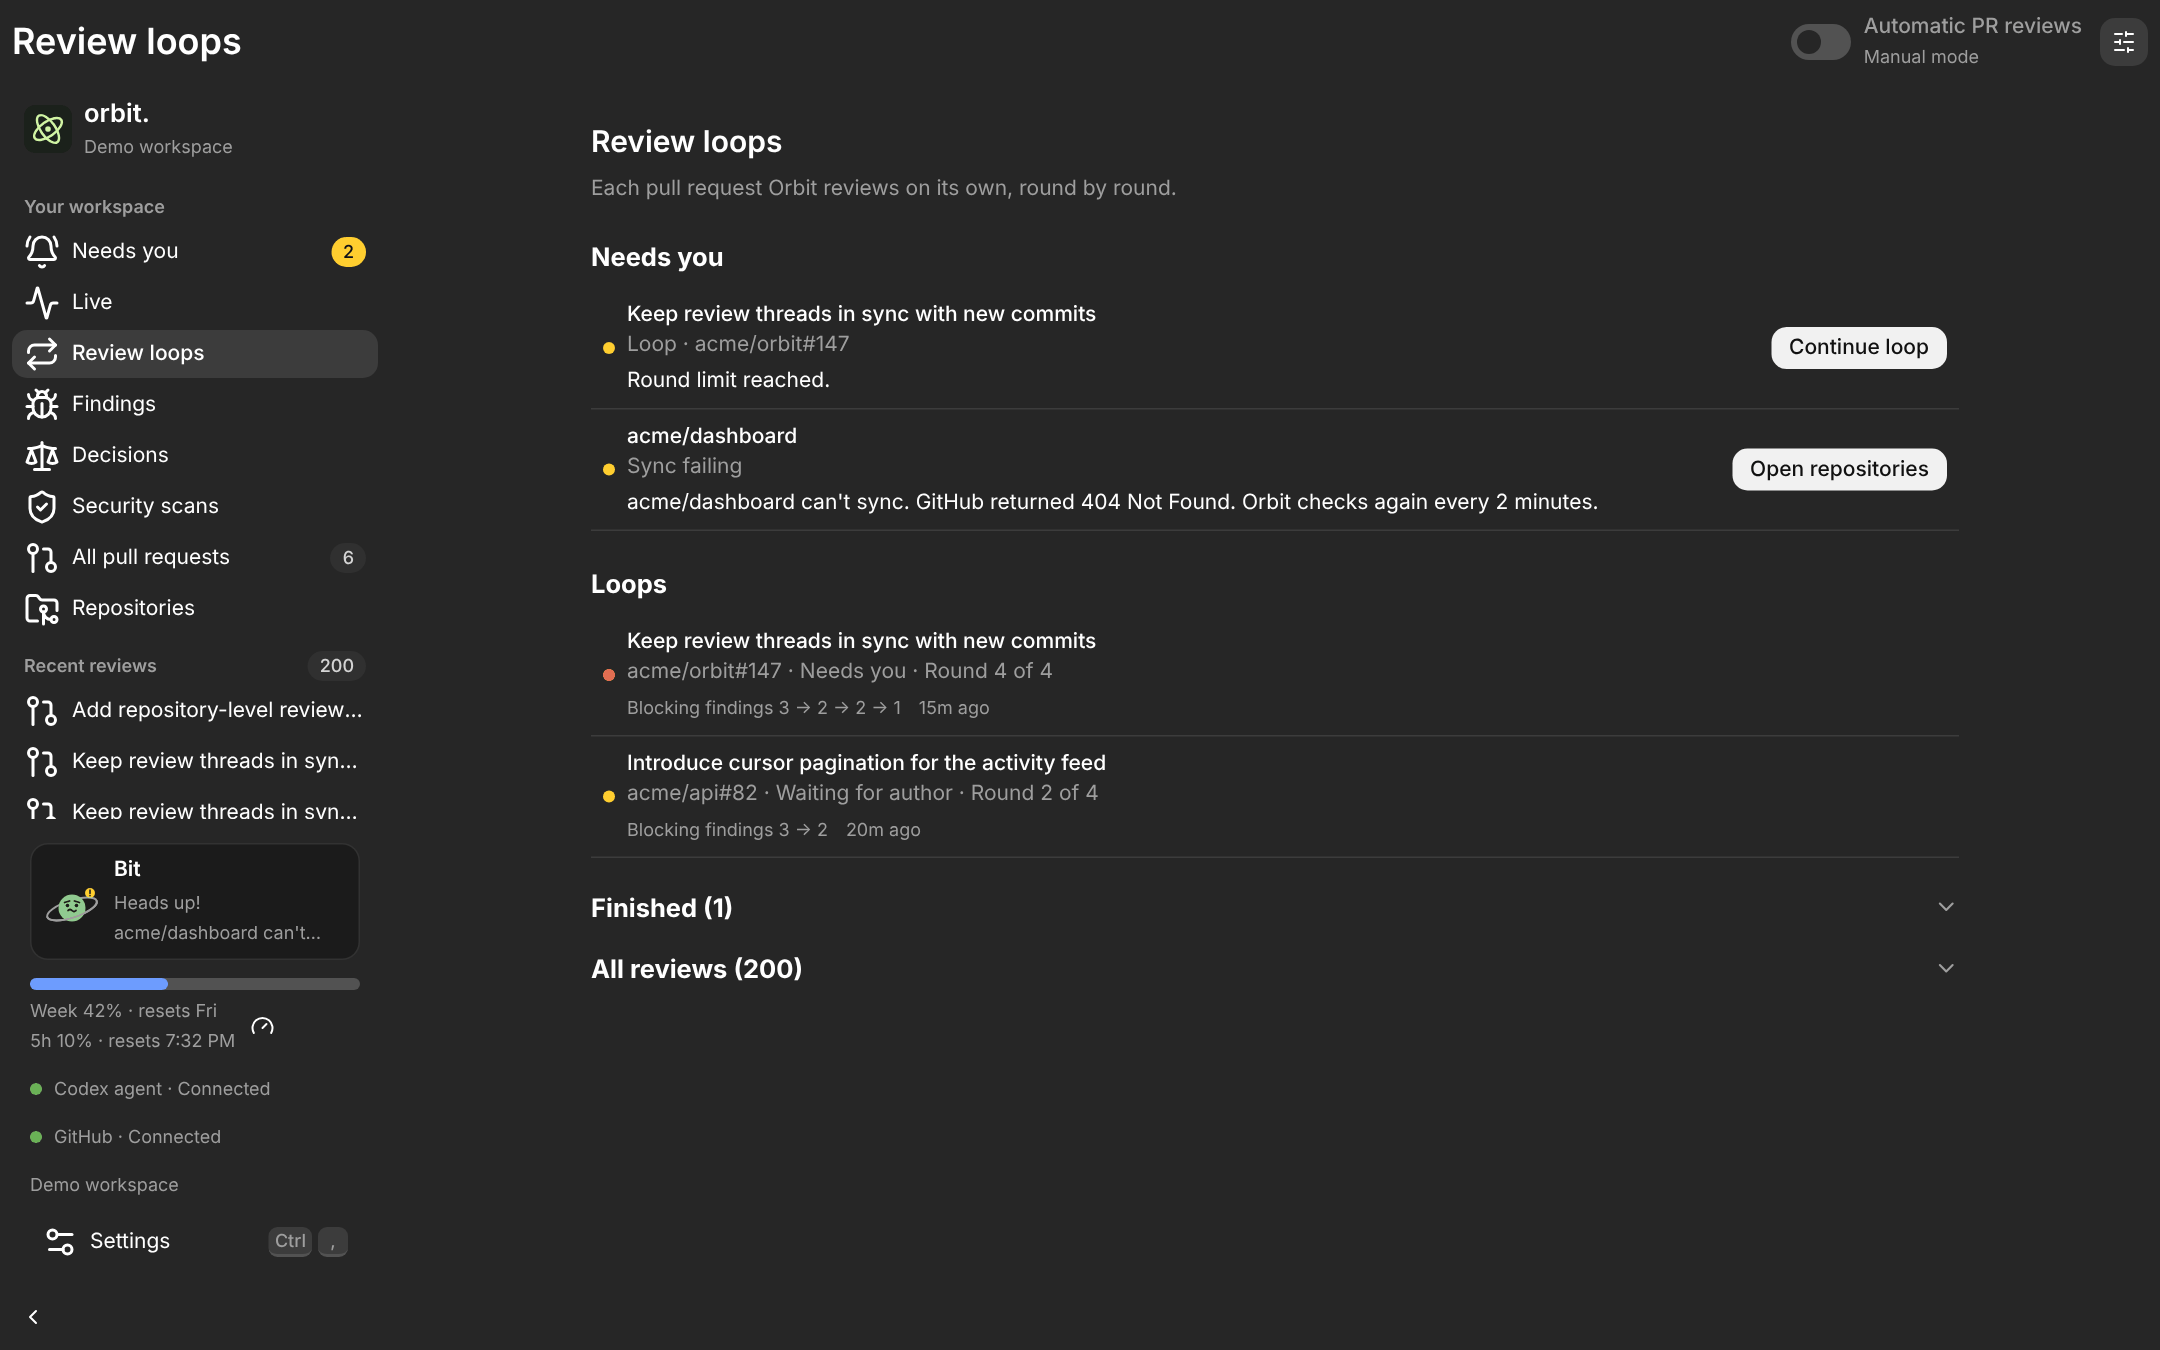
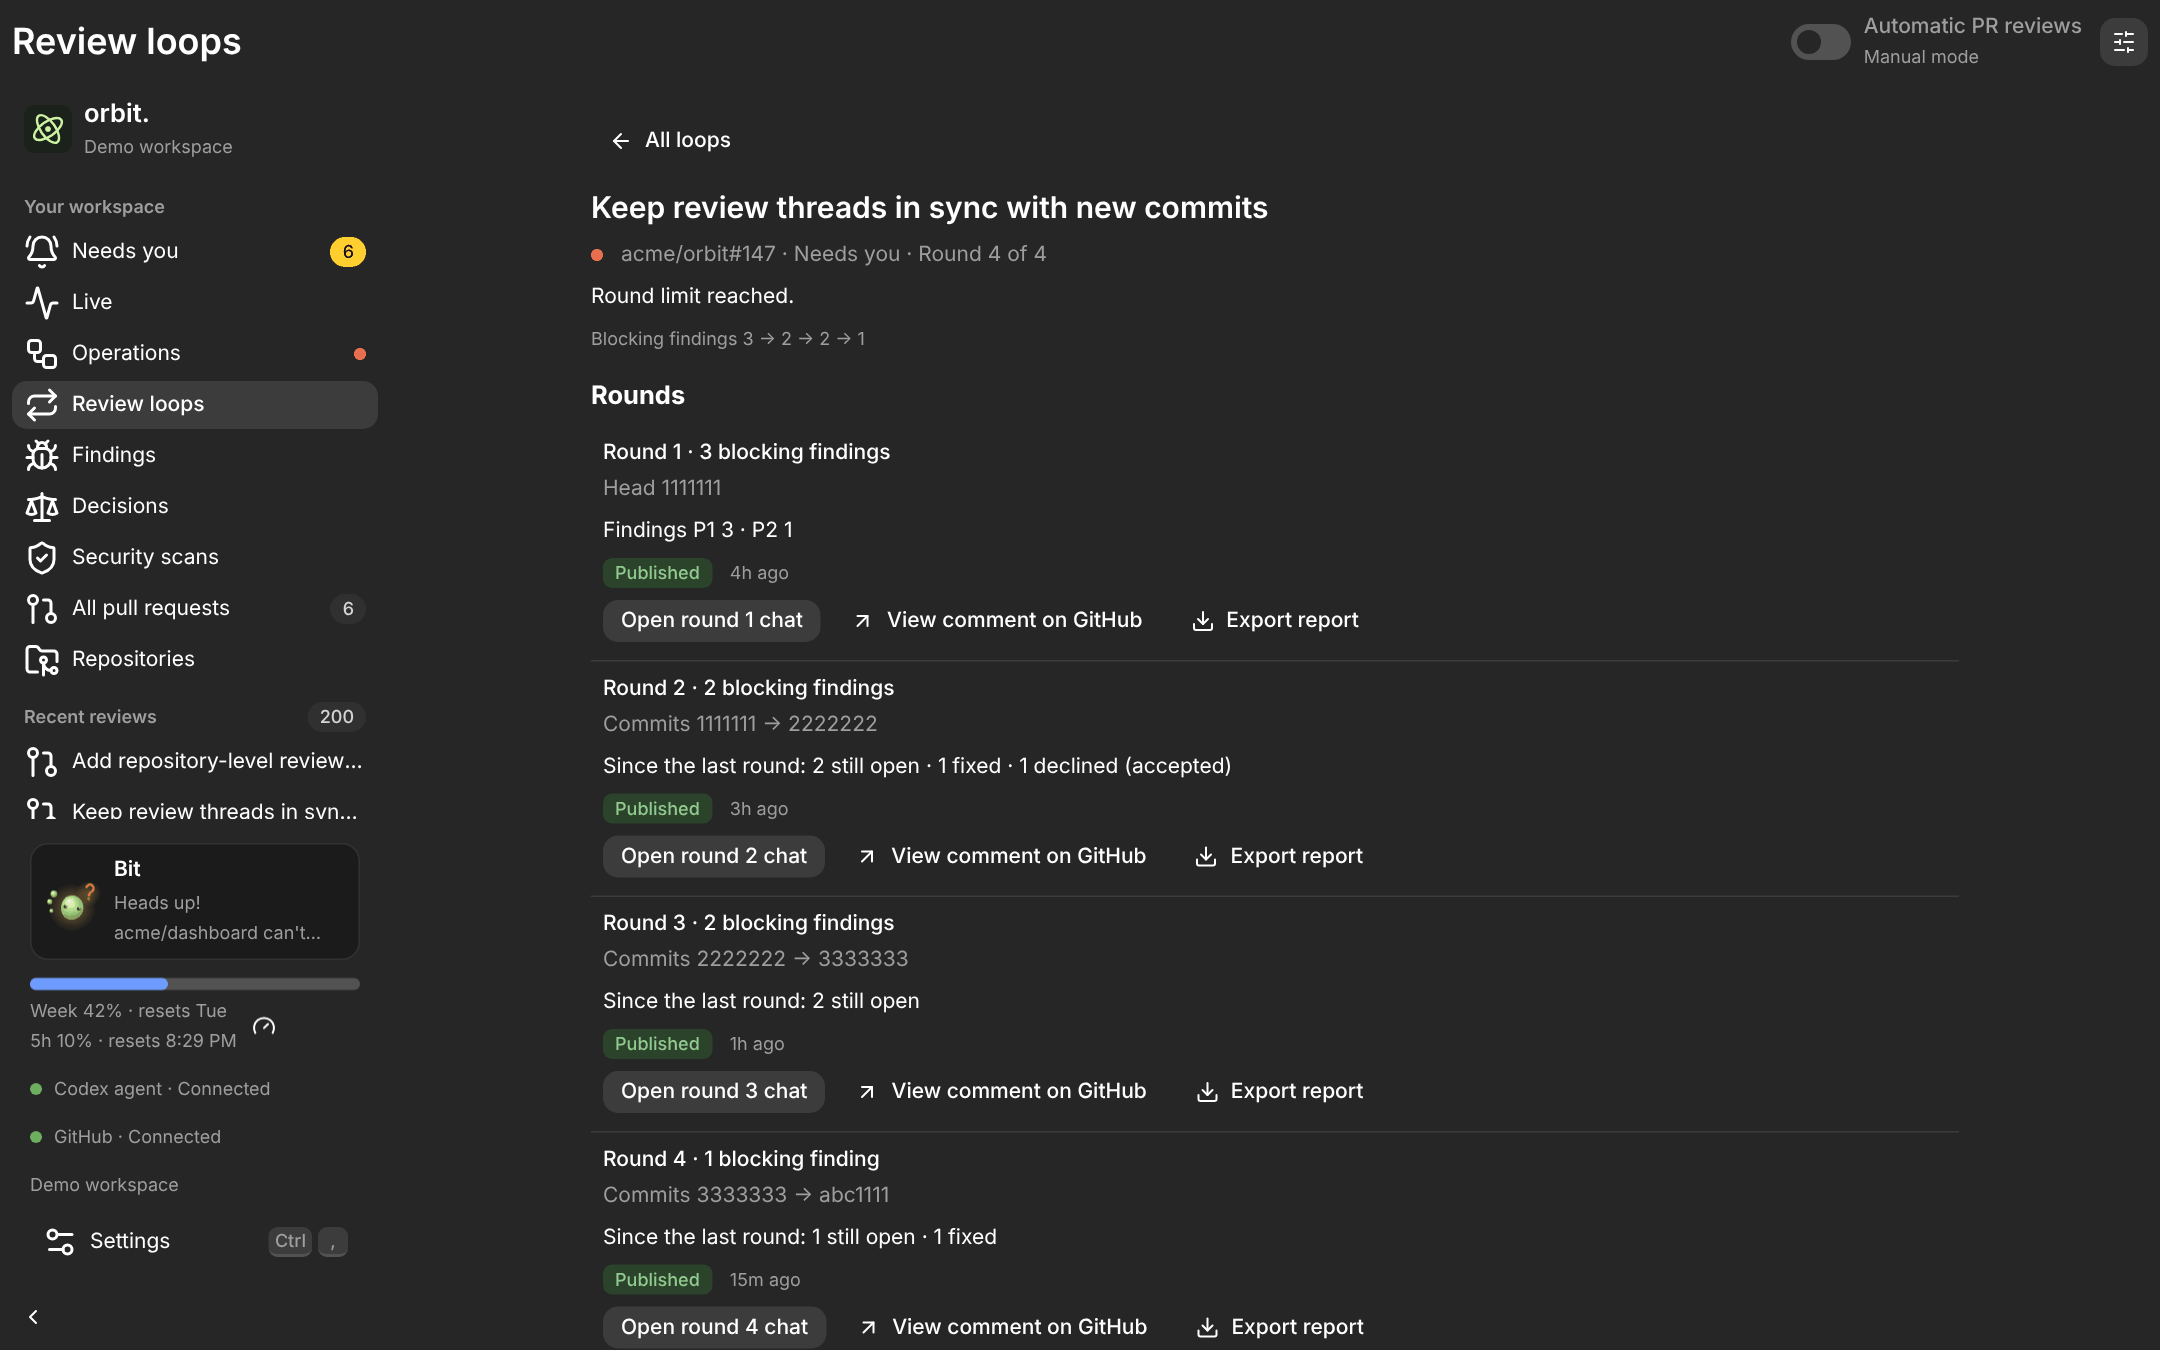
Refresh the README for 0.3.0 with new screenshots
The README now leads with pictures and short, plain words: how the
review loop works in four steps, then a look around each page with a
fresh screenshot from the browser demo. It adds the Operations page,
Bit's morning brief and looks, and a phone view of a loop that needs
you, and trims the text so the user guide carries the detail.

Claude-Session: https://claude.ai/code/session_01F86H7x6cpiREt9ohrkis7Y

diff --git a/README.md b/README.md
@@ -6,7 +6,7 @@
 
 <p align="center">
   <strong>A reviewer for your pull requests that keeps going until they're clean.</strong><br />
-  Runs on your computer, reviews with the AI coding tools you already use, and only calls you when something needs you.
+  It runs on your computer, reviews with the AI coding tools you already use, and only calls you when something needs you.
 </p>
 
 <p align="center">
@@ -16,67 +16,76 @@
   <a href="docs/architecture.md">How it works</a>
 </p>
 
-![Orbit's review chat: a finding with its priority, where it breaks, the evidence and a suggested fix, next to the review inbox](docs/screenshots/chat.png)
+![Orbit's review chat: a blocking finding with its priority, where it breaks, the evidence and a suggested fix, next to the review inbox](docs/screenshots/chat.png)
 
-A coding agent or a person opens a pull request. Orbit reviews its latest commit with **Codex**, **Claude** or **Antigravity**, in a separate copy of your repository, and posts what it found on GitHub. The author fixes or pushes back on each finding and pushes again. Orbit reviews the new commit, picking up from what it found before, and the loop repeats until nothing blocking is left.
+## How it works
 
-Orbit is a desktop app for Linux, macOS and Windows, built with Tauri, Rust and React. It uses the command-line tools you already have signed in, so it never asks for or stores your tokens.
+1. **A pull request opens**, from a coding agent or a person.
+2. **Orbit reviews it** with **Codex**, **Claude** or **Antigravity**, in its own copy of your repository, and posts what it found on GitHub.
+3. **The author answers** each finding, fixing it or saying why not, and pushes again.
+4. **Orbit looks again**, picking up where it left off, until nothing blocking is left.
 
-## What it does
+Every finding has a priority, a case where it breaks, the evidence and a suggested fix. Ask follow-up questions in the chat, then publish the review when you're happy, or let Orbit publish on its own.
 
-### Reviews that read like a good colleague's
+Orbit is a desktop app for Linux, macOS and Windows. It uses the command-line tools you already have signed in, so it never asks for your tokens.
 
-Every finding has a priority from P0 to P3, the places it shows up, a concrete case where it breaks, the evidence, a suggested fix and how to tell it's fixed. Findings keep short IDs like **F2** across rounds, so the author can reply `Fixed F2 in abc1234` or `Declined F2: intended` and Orbit checks the claim on the next round. Read the review in Orbit, ask follow-up questions in its chat, and publish it when you're happy, or let Orbit publish on its own.
+## A look around
 
 ### Loops that run themselves
 
-![The Review loops page: a loop that needs you, and two loops with their blocking findings round by round](docs/screenshots/loops.png)
+Turn on **Autopilot** and Orbit reviews every new push by itself. Follow each pull request round by round as its blocking findings shrink, and step in only when a loop needs you.
 
-Turn on **Autopilot** and Orbit reviews every new push by itself. Each pull request becomes a loop you can follow round by round, with its blocking findings shrinking as it goes (`3 → 2 → 1`). Loops stop at a round limit you set, and Orbit tells you when one stalls, when the reviewer disputes a pushback, or when a review fails.
+![A review loop, round by round: three blocking findings, then two, then one, with the round limit reached](docs/screenshots/loops.png)
 
 ### Everything at a glance
 
-![The Live page: what needs you, headline numbers, the review running now and a chart of reviews per day](docs/screenshots/live.png)
+**Live** shows what needs you, what's running now, and how busy each repository has been. Most things come with a button, so you can act on them right there.
 
-**Live** shows what needs you, what's running, and how busy each repository has been over the last day or two weeks. A usage meter in the sidebar shows how much of your Codex allowance is left.
+![The Live page: six things that need you, each with a button, headline numbers, the review running now and a chart of reviews per day](docs/screenshots/live.png)
 
-### CI, security and releases, watched
+### CI, security and releases, looked after
 
-**Operations** keeps an eye on the rest of each repository. It says why a check failed and which commit broke the default branch, reruns a job that failed by bad luck, and tells the project's agent what to fix, then checks that the fix held. It lists security alerts, risky workflow settings and Dependabot's updates, says whether each pull request is clear to merge, and can push a release tag or publish a draft release with your tap.
+**Operations** keeps an eye on the rest of each repository. It says why a check failed and which commit broke it, tells the project's agent what to fix, and ticks off each step until the fix holds. It also watches security alerts, risky workflow settings and releases, and can publish a release with your tap.
 
-### Every finding, in one place
+![The Operations page: a failing check on main with its playbook three steps along, what Orbit learned from last time, the failing log, and an Ask Bit why button](docs/screenshots/operations.png)
 
-![The Findings page: a table of findings by priority and status, then a list of findings across repositories](docs/screenshots/findings.png)
+### Every finding, and the story behind it
 
-**Findings** gathers every finding from every review and security scan across your repositories. Search and filter them by repository, priority, kind and status, and open one to see its history round by round. **Security scans** checks a whole repository with OpenAI's Codex Security plugin, Claude or Antigravity, and its findings land here too.
-
-### The story behind each pull request
-
-![The Decisions page: things worth a look, such as a disputed pushback and a pull request merged with a finding open](docs/screenshots/decisions.png)
-
-**Decisions** reads each pull request's history from GitHub and tells its story: what it set out to do, what each round found, what was fixed or pushed back on, and what deserves a second look, such as a merge with a finding still open. Turn on write-ups and Codex or Claude sums up each finished pull request in plain words, and builds a rulebook of what your app now commits to from the merged ones. Export it all as Markdown.
+<table>
+  <tr>
+    <td width="50%"><img src="docs/screenshots/findings.png" alt="The Findings page: findings counted by priority and status, then a list of findings across repositories" /></td>
+    <td width="50%"><img src="docs/screenshots/decisions.png" alt="The Decisions page: things worth a look, such as a disputed pushback and a pull request merged with a finding open" /></td>
+  </tr>
+  <tr>
+    <td><strong>Findings</strong> gathers every finding from every review and security scan, across all your repositories.</td>
+    <td><strong>Decisions</strong> tells each pull request's story, and points out what deserves a second look.</td>
+  </tr>
+</table>
 
 ### Meet Bit
 
-<img src="docs/screenshots/bit.png" alt="Bit's page: Bit looking worried, notes about rounds and a stalled loop with Continue loop and Sync now buttons, and quick questions to ask" />
+Bit is Orbit's buddy. It sends you a morning brief, tells you when a loop is clean or stuck, and answers your questions. When one of Orbit's own controls can fix a problem, Bit offers a button. Bit can answer with Codex, Claude, Antigravity, Ollama or an API key.
 
-Bit is Orbit's buddy, a little orb at the bottom of the sidebar. It notes each round and each clean loop, sends a morning brief once a day, its face shows how things are going, and it offers a button when one of Orbit's own controls can fix a problem. Ask it what needs you or what's running, or type any question. **Help me set up** walks you through connecting your first repository, one tap per step. Bit can answer with Codex, Claude, Antigravity, Ollama or an API key, and you can rename it, pick one of 16 looks and a colour, and give it a hat.
+![Bit's page: Bit looking worried, and its morning brief listing a stuck pull request, failing checks and an offline runner](docs/screenshots/bit.png)
+
+Give it a name, a look, a colour and a hat.
+
+<img src="docs/screenshots/bit-looks.png" width="520" alt="Bit's looks: Classic, Pip, Tide, Bloom, Moss, Glim, Nova, Duo, Puff, Jelly, Fizz, Poly, Prism, Gem, Twirl, Cubby and Fold" />
 
 ### Take it with you
 
-<img src="docs/screenshots/phone.png" width="300" align="right" alt="Orbit's review inbox on a phone-sized screen" />
+<img src="docs/screenshots/phone.png" width="280" align="right" alt="A pull request on a phone-sized screen: its review loop needs you, with a Continue loop button, and it isn't clear to merge yet" />
 
-Open the same workspace from your phone or laptop over [Tailscale](https://tailscale.com) while Orbit runs on your computer. Approvals, loops, publishing and chat all work there, the layout fits a phone, and notifications reach it even with the page closed.
+Open Orbit from your phone or laptop over [Tailscale](https://tailscale.com) while it runs on your computer. Everything works there, and notifications reach your phone even with the page closed.
 
-To keep reviewing while your laptop is closed, [run `orbit-server`](docs/user-guide.md#run-orbit-without-a-window) on a computer that stays on. The desktop app can show that Orbit instead of running its own, and move what you have there.
+To keep reviewing while your laptop is closed, [run `orbit-server`](docs/user-guide.md#run-orbit-without-a-window) on a computer that stays on. The desktop app can show that Orbit instead of running its own, and move your repositories and history across.
 
-### Built with care for your machine
+### Careful by default
 
-- **Each review runs in its own copy** of your repository, inside the reviewer's sandbox, with network access off unless you turn it on.
-- **Dev containers** can run a repository's setup and tests in a box with no access to your files, sign-ins or network, built from the base branch's recipe and never the pull request's.
-- **Only trusted pull requests are reviewed automatically**: those from a branch in the repository by an owner, member, collaborator, or an account you trust. Drafts and forks never are.
-- **A credential scan** stops a report that looks like it contains a secret from being published on its own.
-- **Orbit never approves, requests changes or merges.** Its reviews are plain comments, and Autopilot and automatic publishing both start off.
+- **Each review runs in its own copy** of your repository, inside the reviewer's sandbox.
+- **Only trusted pull requests are reviewed on their own**: those from a branch in the repository by an owner, member, collaborator, or an account you trust. Drafts and forks never are.
+- **A report that looks like it holds a secret** is never published on its own.
+- **Orbit never approves, requests changes or merges.** Its reviews are plain comments, and Autopilot starts off.
 
 Read [Isolation and its limits](docs/architecture.md#isolation-and-its-limits) before turning on automatic reviews: a sandbox is not a full boundary.
 
@@ -84,7 +93,7 @@ Read [Isolation and its limits](docs/architecture.md#isolation-and-its-limits) b
 
 ## Try it
 
-**See it first.** Run the browser demo with sample data and simulated reviews. It can't reach your repositories or post anything.
+**See it first.** Run the browser demo. It has sample pull requests and simulated reviews, and can't reach your repositories or post anything.
 
 ```sh
 npm install
@@ -97,19 +106,19 @@ You'll also need, signed in:
 
 - [Git](https://git-scm.com/) and the [GitHub CLI](https://cli.github.com/) (`gh`).
 - The Codex CLI (`codex`, tested with 0.156.1).
-- Optionally [Claude Code](https://code.claude.com/docs) (`claude`) or the [Antigravity CLI](https://antigravity.google/docs/cli/install/) (`agy`), to review a repository with them instead.
-- Optionally [Docker](https://docs.docker.com/get-started/get-docker/) and the [Dev Container CLI](https://github.com/devcontainers/cli), to run setup and checks in a dev container.
+- Optionally [Claude Code](https://code.claude.com/docs) (`claude`) or the [Antigravity CLI](https://antigravity.google/docs/cli/install/) (`agy`), to review with them instead.
+- Optionally [Docker](https://docs.docker.com/get-started/get-docker/) and the [Dev Container CLI](https://github.com/devcontainers/cli), to run a repository's setup and checks in a dev container.
 
 If Orbit can't find these tools when you open it from a desktop shortcut, launch it from a terminal where they work.
 
 ### Your first review
 
 1. Open **Settings** and check that GitHub and Codex show **Connected**.
-2. Open **Repositories → Add repository**, or ask Bit to **Help me set up**. Pick a repository and point Orbit at your local copy, or leave the path empty and Orbit keeps its own.
+2. Open **Repositories → Add repository**, or ask Bit to **Help me set up**.
 3. Open **All pull requests**, pick one, and click **Start review**. Follow it in **Review chat**, then **Publish review** to post it.
 4. When you're ready for the loop, turn on **Automatic reviews** for the repository and **Autopilot** in the header.
 
-For a coding agent on the other side of the loop, copy the [`answer-orbit-reviews`](.claude/skills/answer-orbit-reviews/SKILL.md) Claude Code skill from Settings into your repository. It teaches the agent to read Orbit's findings and answer them in a form Orbit understands.
+For a coding agent on the other side of the loop, copy the [`answer-orbit-reviews`](.claude/skills/answer-orbit-reviews/SKILL.md) Claude Code skill from Settings into your repository. It teaches the agent to answer Orbit's findings in a form Orbit understands.
 
 The [user guide](docs/user-guide.md) covers every page, setting and rule.
 
@@ -123,7 +132,7 @@ npm run desktop   # the desktop app, with hot reload
 npm run check     # everything the project checks before a change
 ```
 
-[CONTRIBUTING.md](CONTRIBUTING.md) has the full list of commands, the dev container, and how releases are made. [docs/architecture.md](docs/architecture.md) explains how Orbit fits together.
+[CONTRIBUTING.md](CONTRIBUTING.md) has the full list of commands, the dev container, and how releases are made.
 
 ## Contributing and license
 
